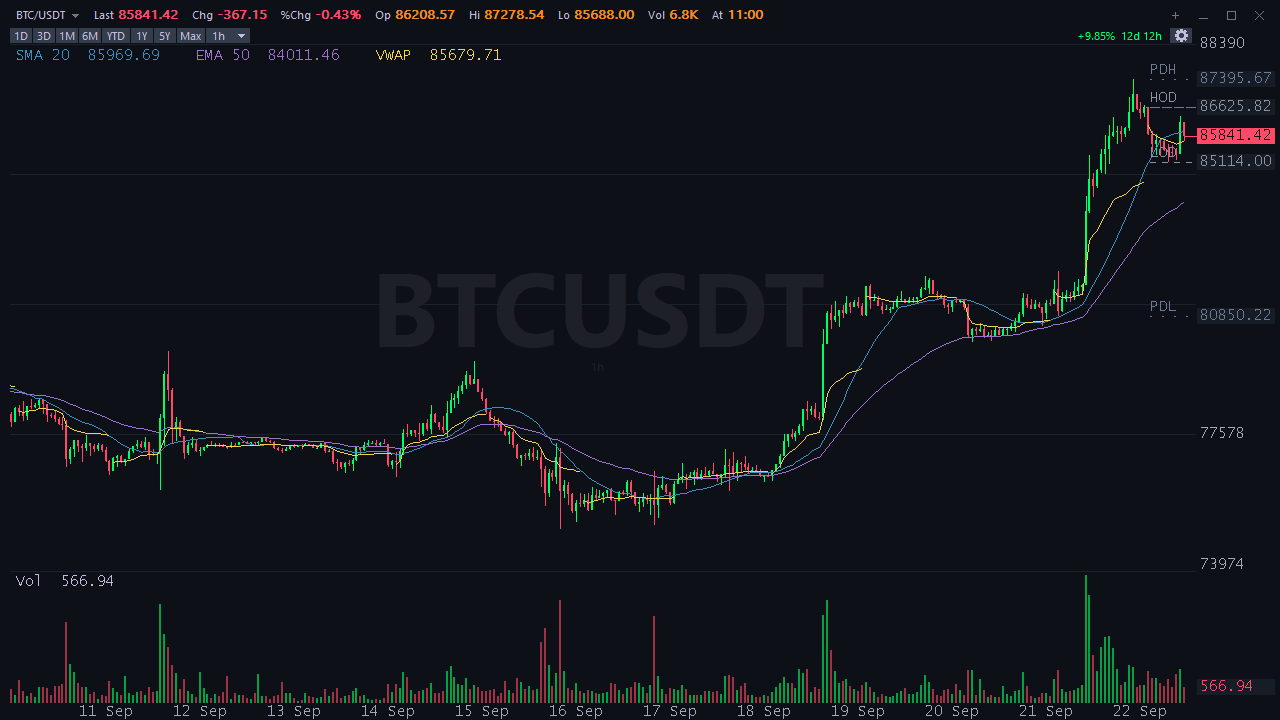
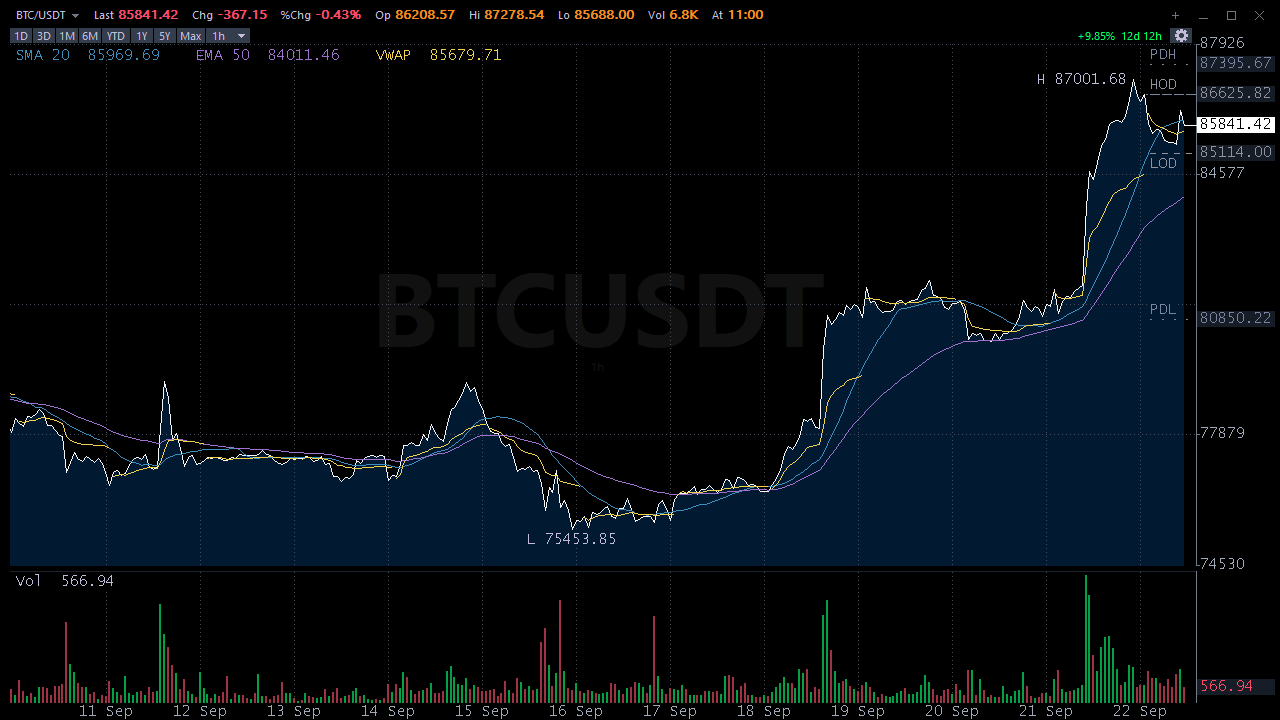
Work log and README: phase 51, the Bloomberg look, part 1

Changed region(s): [[0.0, 0.0611, 1.0, 0.7944]]

diff --git a/WORKLOG.md b/WORKLOG.md
@@ -128,11 +128,16 @@ default.
 **Phase 50** closes phase 49's two small limitations: the OHLC strokes on
 the desktop widen with the line, and the gear menu's rows share the room
 on a low panel, so all eight fit at 400x250.
+**Phase 51** is part 1 of the Bloomberg look, on the model of the GIP
+chart: a black background, the mountain as a navy fill under a white line
+and the panel's default type, a dotted grid, the price column as an axis,
+a white last-price box for the line and the mountain, and the view's high
+and low as labels.
 See **The window** below. Design spec for phase 2:
 `docs/specs/2026-09-16-phase2-design.md`.
 
 The code is **two files** from phase 34: `tickc.c` (the app, ~7500 lines) and
-`chart.c` behind `chart.h` (the chart engine, ~2800 lines). Next to them is
+`chart.c` behind `chart.h` (the chart engine, ~3100 lines). Next to them is
 `tickc.manifest`, which the build embeds (phase 9). No external dependencies
 beyond Win32 and WinHTTP.
 
@@ -4420,21 +4425,161 @@ and once more by the orchestrator on the merged build. The earlier scripts
 pass, and `golden.ps1 -Hidden` is identical to phase 49 in all seven
 captures. **Exe unchanged at 250 368 bytes.**
 
+### Phase 51 — the Bloomberg look, part 1: the chart area
+
+Branch `phase-51`, merged with `--no-ff`. The user asked for the chart to
+look like the Bloomberg Terminal's and gave a screenshot of its GIP
+Standard Chart (SPX, one year, the mountain) as the answer key; the colors
+below were sampled from that picture or measured against it side by side.
+One agent edited `tickc.c`, `chart.c`, `chart.h` and `tests/`. Part 1 is
+the chart area. The statistics box, the volume pane's style, the two-level
+time axis and a proportional axis font are phase 52.
+
+**A black background.** The dark theme's background (`CLR_BG`) is
+`000000`, as on the terminal, where it was `0D1117` in phases 1-50. The
+header, the quote line and the menus draw on the theme's background, so no
+`0D1117` pixel is left in the panel; only the tray icon keeps it
+(`RenderMicroFontIcon`), since it stands on the taskbar. On black, every
+darker copy of a text color lies exactly on that color's blend line
+(pitfall 152), so the colors that were blends toward the old background
+were derived again and moved one channel off: the bars behind the price
+`01481C`/`48141D` (were `09542D`/`51212D`) and the alert line `815810`
+(was `86601B`). The volume pane's bars (`05A046`/`9E3346`) are kept. Every
+text gains contrast: the text 10.40 → 11.54:1, the muted gray 4.12 → 4.57,
+the axis labels 8.05 → 8.94, the number on the down stamp 5.76 → 6.40.
+`chart_golden` now checks the dark theme's text pairs too, not only the
+light theme's: 45 pairs, the lowest 4.57:1. Three older pairs of the muted
+gray on the box are named in `DARK_ALLOW` at their floor of 3.69 (the ghost
+tag with its slots full, the hover box's labels, the menus' headings); they
+may not drop, and every other pair must reach 4.5.
+
+**The mountain** is GIP's: a dark navy fill, `011A31` (the most common
+pixel of the screenshot's fill), under a white line, `F4F6F9`, whose slight
+cool tint keeps it off the gray ramp from black to the watermark's white.
+Phase 49's fill was a blend of the background toward the line (`2D3239`
+under `DDE6F0`); the check that the fill equals that blend was rewritten,
+not loosened (pitfall 153). In the light theme the fill goes from `DADEE4`
+to `D6E4F4`, the navy's hue, under the navy line `1B365D`. On the navy the
+texts read at 9.67:1 (the text), 7.49 (the axis labels), 5.74 (today's
+levels), 4.93 (SMA), 4.87 (EMA) and 11.73 (VWAP). Phase 49 put a level
+name or the averages' legend on a patch of the background where it stood on
+the fill; on the navy that patch was a black box on the default chart
+(pitfall 161). A new theme role, `fillCell`, is that cell: the navy itself
+in the dark theme, and still the background in the light one, where the
+grays are ~3.7:1 on the fill. Yesterday's gray (`CLR_PREV`) is a step
+lighter for the navy, `6F7B95` → `7985A0`: 4.76 on the navy, 5.68 on the
+background and 4.58 on the box, which takes it off the list of pairs under
+4.5.
+
+**The grid, the axis, the stamp.** The panel's grid is dotted both ways,
+one device pixel in four (`GRID_DOT_PERIOD` 4), in `474E5B` (2.51:1,
+weaker than the crosshair's `555F6E` at 3.25): rows at the price labels
+and columns at the time labels, through the volume pane and the RSI band.
+`TimeLabelsOf` computes the time labels once per frame, before the grid, so
+a column stands where a label is drawn and nowhere else (pitfall 14). The
+light theme's dots are `B4BCC8`. The price column is an axis: a line on its
+edge down each pane, not across the gaps between them, in `737D8C` (5.04;
+`7D8795` in the light theme), and a 3 px tick at each price label drawn and
+at RSI's 70 and 30. The tags and the stamp cover it where they stand. The
+last-price stamp of the line and the mountain is the series' white: a
+`FFFFFF` box with a black number (21:1) and the dashed line in the same
+white; in the light theme it is inverted, the navy `1B365D` with a white
+number (12.1). The candles and the OHLC bars keep the up/down stamp. The
+desktop keeps its three solid rules, no axis line and the up/down stamp for
+every type: side by side the dots were not calmer there, and the stamp's
+color is the desktop's direction signal (phase 16) - a white box would be
+the loudest thing on the wallpaper.
+
+**The view's high and low.** Bloomberg marks the period's high and low. The
+highest and the lowest price of the candles whose middle is in view, in the
+prices the axis scales on (the highs and lows for the candles and the bars,
+the closes for the line and the mountain), stand as `H 87001.68` and
+`L 75453.85` by their points: above the high and below the low, centered,
+else to the right, else to the left. `HiLoFree` keeps a label off the level
+lines (each from where it starts: a level line begins at today's first
+candle, pitfall 156), the alerts, the ghost, the afterglow, the last-price
+line, the marks, the legend, the level names and the hover box plus 1 px;
+the hover box's place is now decided before the labels. A label stands on
+an opaque cell (the navy on the fill, else the background), so the averages
+cannot run through its digits. Where nothing fits, or the plot is under
+200 px wide, it is not drawn. Panel only. Probe field 94 (panel) is the
+mask of the labels drawn.
+
+**The panel opens as the mountain**, GIP's default. Only a missing (or
+out-of-range) `ChartType` changes; a saved choice is kept, and the desktop
+keeps the line.
+
+**Verified.** Commit 1 (the new theme roles, the probe mask and the checks,
+nothing drawn yet) was **red**: 42 unit checks failed while the 64 goldens
+still passed and the controls held. `shot_p51.ps1` (18 checks, on the
+hidden desktop), **red** against `ticker_test_51c1.exe`: 11 fail and the 7
+controls pass. Green: `chart_golden` 64/64 twice with no unit failures; 63
+goldens changed, each looked at, and `light_desktop_1920x1080` is
+unchanged. Eleven mutations of `chart.c` each fail at least one check. Two
+of them first went undetected - the hover box and the lines as colliders of
+the high/low labels - because the opaque cell hides what it cuts (pitfall
+154); the check now computes the colliders from the state (`PlotRows`,
+`MarksInRect`), and a new check makes sure a level name wholly on the navy
+stands on the navy. `shot_p51` 18/18 twice: the mountain by default, the
+desktop's line, a saved `ChartType` kept, the mountain back when the value
+is removed, no `0D1117` pixel in the panel, the settings menu or the
+dropdown, the header on black, the navy fill and the white stamp in the
+capture, field 94 = 3 for the mountain and for the candles, and no black
+in the light theme. `regress51.ps1` (`regress49`'s 12 scripts, `shot_p49`
+and `shot_p51`) 14/14 twice. Expectations changed on purpose, each named:
+`shot_p49`'s fresh panel type (DEF) 0 → 3 and its out-of-range value, which
+keeps the panel's default, 0 → 3; its tray check, whose checked item on a
+fresh start is 1403, not 1400 (and the pick of the mountain now starts
+from candles, pitfall 127); its color literals (PIC); and `shot_theme`'s
+`$DARK_BG` `0x0D1117` → `0x000000` (pitfall 158). `golden.ps1 -Hidden`:
+all seven captures differ, as they should, and were looked at. GDI 67 → 67.
+Draw time: the panel +0.5 ms (~3 %), the desktop unchanged. Not exercised:
+desktop mode itself (it cannot run hidden); the black desktop was checked
+in `chart_golden` only. `/W4` clean. The README picture is the same
+fixture scene, retaken. **Exe 250 368 → 256 000 bytes (+5 632).**
+
 ---
 
 ## Known limitations
 
+- **The view's high and low labels follow the visible extremes** (phase
+  51). They move while the view pans and when a new candle makes a new
+  extreme, and a label that fits nowhere is not drawn.
+- **The high/low labels' opaque cells cut what lies under the text**
+  (phase 51): the averages and the grid's dots stop at the digits. That is
+  the point of the cell (the averages would run through the number), but
+  a line there is interrupted.
+- **The stamp has no pointer notch and the axis no minor ticks** (phase
+  51). Bloomberg's GIP chart has both.
+- **The line's and the mountain's stamp creates its dashed pen every
+  frame** (phase 51) and deletes it again. A `penLastSeries` in
+  `ChartStyle` would avoid it.
+- **The desktop keeps the old look** (phase 51, by choice): three solid
+  grid rules, the up/down stamp for every type, no axis line and no
+  high/low labels. Desktop mode itself was not exercised (it cannot run
+  hidden); the black desktop was checked in `chart_golden` only, and the
+  README's desktop picture is from before phases 49 and 51 (candles on
+  the old background).
+- **The desktop's wide line is slow with a very wide view** (phase 49,
+  observed in phase 51): with `DeskLineW`'s wide pen the line takes ~19 ms
+  at 3840x1600 with all 6000 candles in view.
+- **The tray icon keeps the old background** (phase 51). The micro font's
+  bitmap is filled with `0D1117` (`RenderMicroFontIcon`); the icon stands
+  on the taskbar, not on the chart.
+- **`golden.ps1 -Light` was not re-run in phase 51.** The light theme's
+  chart was checked in `chart_golden` and `shot_p51`.
 - **The mountain hides the watermark where its fill lies** (phase 49). The
   fill is opaque and drawn under the grid, the bars behind the price and
   the alert and level lines, but over the watermark. That is one reason
   the desktop's default is the line.
 - **The mountain's fill is solid, not a gradient** (phase 49). A gradient
   would need msimg32's `GradientFill` or a region every frame.
-- **A label or the legend on the fill stands on a patch of the
-  background** (phase 49). The light theme's gray label text is ~3.6:1 on
-  the light fill, so the level labels and the averages' legend go opaque
-  where they sit on it, and show as small background-colored patches in
-  the mountain.
+- **In the light theme a label or the legend on the fill stands on a patch
+  of the background** (phase 49; dark theme changed in phase 51). The light
+  theme's gray label text is ~3.7:1 on the light fill, so the level labels
+  and the averages' legend go opaque where they sit on it, and show as
+  small background-colored patches in the mountain. In the dark theme the
+  cell is the navy itself (`fillCell`), so nothing shows.
 - **On the line and the mountain the price axis spans the closes**
   (phase 49), not the highs and lows, so a level or an alert between the
   closes' range and the wicks' is not drawn there, where the candles and
@@ -4547,12 +4692,14 @@ captures. **Exe unchanged at 250 368 bytes.**
   the taskbar, which follows Windows' theme, not TickC's.
 - **The theme does not follow Windows' light/dark app mode** (phase 40).
   It is an explicit choice, per mode, and dark by default.
-- **The dark theme has text pairs under 4.5:1** (phase 40): the muted
-  gray `CLR_DIM` on the box (3.69:1, hover box labels and overlay
-  headings) and on the background (4.12, toolbar pills at rest), and
-  yesterday's levels (`CLR_PREV`, 3.99 on the box, 4.45 on the
-  background). These are older, deliberate "muted" choices and were left
-  alone. The contrast check in `chart_golden` covers the light theme only.
+- **The dark theme has text pairs under 4.5:1** (phase 40, narrowed in
+  phase 51): the muted gray `CLR_DIM` on the box, 3.69:1, in three places
+  (the ghost tag with its slots full, the hover box's labels and the
+  menus' headings). These are older, deliberate "muted" choices and were
+  left alone. On the black background of phase 51 the same gray is 4.57,
+  and yesterday's levels (`CLR_PREV` `7985A0`) reach 4.58 on the box, 5.68
+  on the background and 4.76 on the navy. `chart_golden` checks both
+  themes; the three pairs are named in `DARK_ALLOW` at their floor.
 - **A hovered toolbar pill is fainter in the light theme** (phase 40): the
   white box on `FAFAFB` is 1.05:1, against 1.10:1 in the dark theme. The
   text turning from dim to the text color carries the hover.
@@ -4734,9 +4881,10 @@ captures. **Exe unchanged at 250 368 bytes.**
   carries the level. On a young day the PD* labels drop more often, and
   HOD can lose its name to PDH. An opaque surface behind the text was
   rejected (it would wipe out the candles). On the mountain's fill (phase
-  49) a label does stand on a background patch, since it covers only
-  fill there, and the label tests the chosen type's marks, not the
-  candles'.
+  49) a label does stand on an opaque cell, since it covers only fill
+  there - from phase 51 the theme's `fillCell`, the navy itself in the
+  dark theme and the background in the light one - and the label tests
+  the chosen type's marks, not the candles'.
 - **The crosshair tag is not shown within 16 px of the last-price stamp**
   (phase 29). The crosshair line and the hover box stay; the number on the
   axis is then the stamp's.
@@ -5555,21 +5703,50 @@ captures. **Exe unchanged at 250 368 bytes.**
 150. **`pwsh -File x.ps1 -Names a,b,c` passes one string, not an array.**
 151. **Phase N's regression runner must include `shot_pN`.** `regress48`
     left out `shot_p48`; `regress49` has it.
+152. **On black, every darker copy of a text color is exactly on its blend
+    line** (`Blend(000000, c, t)` = c*t/255). Blends toward the background
+    must be re-derived and moved one channel off (pitfall 87).
+153. **A check that the mountain equals `Blend(bg, line)` breaks by design
+    once the fill gets its own color.** Rewrite the rule, don't loosen the
+    tolerance.
+154. **Text drawn with an opaque cell hides what it cuts,** so "no line or
+    mark in the label" pixel checks pass without testing anything. Compute
+    the colliders from state; the mutation changed 15 goldens and failed
+    no pixel check.
+155. **Row-by-row pixel grouping splits one label** (the top row of the
+    far digits opens its own group before the lower rows join). Merge
+    groups after the scan.
+156. **A level line starts at today's first candle, not the plot's left
+    edge.** A collision test on rows needs each row's x-extent (the L
+    label was refused by PDL's row ~1000 px away).
+157. **Dotted rows and columns meet.** A "no two dots touching" check must
+    skip neighbors on a grid row.
+158. **A background literal in a script (`$DARK_BG`) turns "no dark pixel"
+    checks vacuous after a background change.**
+159. **Staging hunks by keyword can leave one behind** (the tick pen's
+    select); the axis commit first went in with black ticks. Build what is
+    staged, and grep the remaining diff for the feature's identifiers
+    (pitfall 141).
+160. **`%06X` of a `COLORREF` prints BBGGRR.** Use a helper that prints
+    RRGGBB.
+161. **A patch rule chosen for one theme can be an artifact in another:**
+    the black patch was invisible on the gray fill and a box on the navy.
+    Look at the default chart in the app capture, not only at the goldens.
 
 ---
 
 ## Backups
 
-**Only `tickc.c.bak44` and `chart.c.bak44` are left** (2026-09-24). From
+**Only `tickc.c.bak45` and `chart.c.bak45` are left** (2026-09-24). From
 phase 34 the code is two files, so the backup is a pair. They are identical
-to `tickc.c` and `chart.c` after phase 49 and are the rollback reference for
+to `tickc.c` and `chart.c` after phase 51 and are the rollback reference for
 the build that is running. `ticker.c.bak` … `.bak24`, `tickc.c.bak25` …
-`.bak27` and the pairs `.bak28` … `.bak42` (phases 34–48) are deleted: that history is in git.
+`.bak27` and the pairs `.bak28` … `.bak44` (phases 34–50) are deleted: that history is in git.
 
 The order was `.bak` … `.bak7` (phases 1–8), `.bak8` (phase 13), `.bak9`
 (phase 14), `.bak10` (phase 15), `.bak11` (phase 16), `.bak12` (phase 17),
 `.bak13` (phase 18), `.bak14` (phase 19), `.bak15` (phase 20), `.bak16`
-(phase 21), `.bak17` (phase 22), `.bak18` (phase 23), `.bak19` (phase 24), `.bak20` (phase 25), `.bak21` (phase 26), `.bak22` (phase 27), `.bak23` (phase 28), `.bak24` (phase 29), `tickc.c.bak25` (phase 30), `.bak26` (phase 31), `.bak27` (phase 32), then the pairs `.bak28` (phase 34), `.bak29` (phase 35), `.bak30` (phase 36), `.bak31` (phase 37), `.bak32` (phase 38), `.bak33` (phase 39), `.bak34` (phase 40), `.bak35` (phase 41), `.bak36` (phase 42), `.bak37` (phase 43), `.bak38` (phase 44), `.bak39` (phase 45), `.bak40` (phase 46), `.bak41` (phase 47), `.bak42` (phase 48), `.bak43` (phase 49) and `.bak44` (phase 50). The files are ignored by
+(phase 21), `.bak17` (phase 22), `.bak18` (phase 23), `.bak19` (phase 24), `.bak20` (phase 25), `.bak21` (phase 26), `.bak22` (phase 27), `.bak23` (phase 28), `.bak24` (phase 29), `tickc.c.bak25` (phase 30), `.bak26` (phase 31), `.bak27` (phase 32), then the pairs `.bak28` (phase 34), `.bak29` (phase 35), `.bak30` (phase 36), `.bak31` (phase 37), `.bak32` (phase 38), `.bak33` (phase 39), `.bak34` (phase 40), `.bak35` (phase 41), `.bak36` (phase 42), `.bak37` (phase 43), `.bak38` (phase 44), `.bak39` (phase 45), `.bak40` (phase 46), `.bak41` (phase 47), `.bak42` (phase 48), `.bak43` (phase 49), `.bak44` (phase 50) and `.bak45` (phase 51). The files are ignored by
 git; the pattern
 is `*.bak[0-9]*`, with an asterisk, because `*.bak[0-9]` alone let the two-digit ones
 through.

diff --git a/README.md b/README.md
@@ -2,12 +2,12 @@
 
 A crypto price ticker for the Windows tray, written in plain C against the Win32 API.
 Two source files. No runtime, no installer, no dependencies beyond what ships with Windows.
-The whole thing compiles to a single exe of about 250 KB.
+The whole thing compiles to a single exe of about 256 KB.
 
 I built it because I wanted the BTC price in the corner of my screen without keeping
 a browser tab open, and without a 150 MB Electron app. It grew from there.
 
-![The chart panel: the quote line, candles, SMA 20, EMA 50, VWAP, the day levels and the volume pane](docs/images/panel.png)
+![The chart panel: the quote line, the mountain on black, SMA 20, EMA 50, VWAP, the day levels, the view's high and low, and the volume pane](docs/images/panel.png)
 
 ## What it does
 
@@ -16,14 +16,18 @@ Binance it shows `...` and says so in the tooltip, and keeps retrying.
 - **A header on the Bloomberg model:** a quote line with Last, Chg, %Chg, Op, Hi, Lo, Vol
 and At for the UTC trading day, a range field (1D … Max, and the bar size), and a gear
 that opens the chart settings: volume, averages, RSI, the theme and the chart type.
-- **Chart panel** (left-click the icon): candlesticks, SMA 20, EMA 50 and a daily VWAP,
+- **Chart panel** (left-click the icon): the price as a mountain, SMA 20, EMA 50 and a daily VWAP,
 with the volume in a pane of its own under the price and an optional RSI 14 pane. You
 also get today's high and low, and yesterday's high, low and close (labelled HOD, LOD,
 PDH, PDL, PDC).
+- **The Bloomberg look,** after the terminal's GIP chart: a black background, a white line over
+a navy fill, a dotted grid, a price axis with a tick at each label, a white box for the last
+price of the line and the mountain, and the view's high and low marked `H` and `L` by their points.
 - **Four chart types,** as in Bloomberg: candles, OHLC bars, a line of the closes, and a
 mountain (the line with the area under it filled). Pick one under CHART TYPE in the gear
 menu, step through them with `C`, or use "Chart type" in the tray menu. The panel and
-desktop mode each have their own choice: the panel starts on candles, the desktop on the line.
+desktop mode each have their own choice: the panel starts on the mountain (Bloomberg's default
+for GIP), the desktop on the line.
 - **Symbols:** BTC, ETH, SOL and BNB against USDT.
 - **Intervals:** 1m, 5m, 15m, 1h, 4h, 1d, 1w, from a dropdown in the toolbar.
 - **Ranges:** 1D, 3D, 1M, 6M, YTD, 1Y, 5Y, Max. A range picks a fitting interval and shows
@@ -76,8 +80,9 @@ cl /nologo /W4 /O2 /I. /Fo:tests\ /Fe:tests\chart_golden.exe tests\chart_golden.
 tests\chart_golden.exe
 ```
 
-Before the pictures, the run checks every text/background pair of the light theme
-against WCAG AA (4.5:1). Each case is hashed and compared with `tests/golden/chart.txt`; a failing case
+Before the pictures, the run checks every text/background pair of both themes
+against WCAG AA (4.5:1); three older, deliberately muted pairs of the dark theme are named and
+held at their floor. Each case is hashed and compared with `tests/golden/chart.txt`; a failing case
 is written to `tests/out/` as a BMP. Text goes through the installed fonts and
 the ClearType setting, so the hashes hold for the machine that wrote them. On
 another machine, look at the pictures (`--bmp`) and rewrite them with `--update`.
